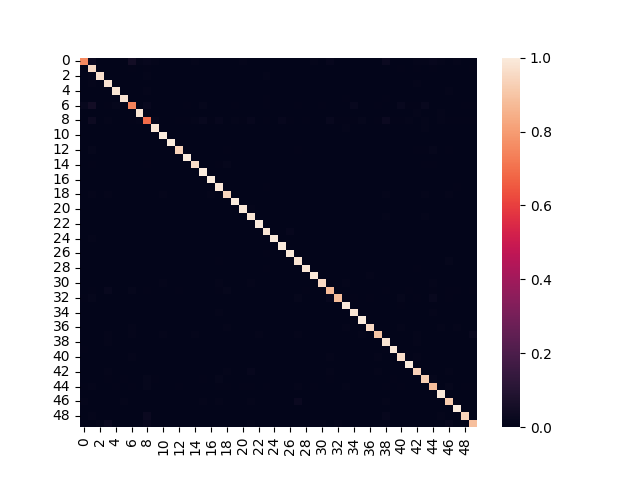
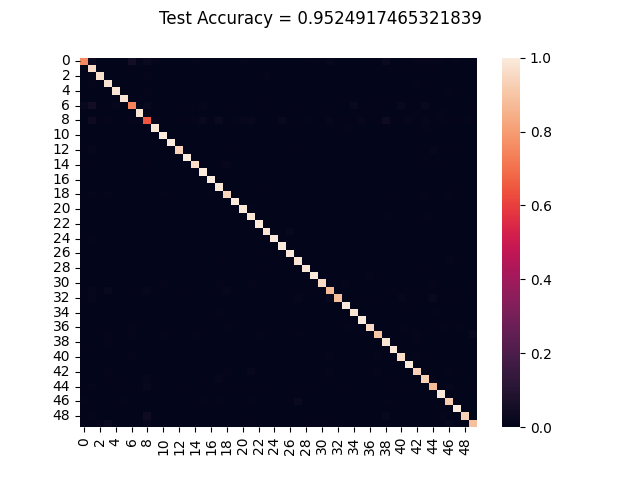
Most recent models and experiments

Changed region(s): [[0.25, 0.0, 0.75, 0.0625]]

diff --git a/protein_model.py b/protein_model.py
@@ -70,24 +70,24 @@ for ind, family in enumerate(families):
         train_family_embeds[train_family_accessions == family, :]
     )
 
-# Re-Train: update prototypes to discourage misclassification
-for _ in range(10):
-    # train_preds = cosine_sim_batch(all_prototypes, train_family_embeds)
-    # pred_train_families = families[np.argmax(train_preds, axis=0)]
-    pred_train_families = families[
-        top_n_class_matches(all_prototypes, train_family_embeds).flatten()
-    ]
-    print(balanced_accuracy_score(train_family_accessions, pred_train_families))
-    for index in np.where(train_family_accessions != pred_train_families)[0]:
-        embed = train_family_embeds[index]
-        true_family = train_family_accessions[index]
-        predicted_family = pred_train_families[index]
-        # Add this embed to it's correct family
-        all_prototypes[families == true_family, :] += LEARNING_RATE * embed
-        # Subtract this embed from it's mispredicted family
-        all_prototypes[families == predicted_family, :] -= LEARNING_RATE * embed
-    all_prototypes = np.sign(all_prototypes)
-    all_prototypes[all_prototypes == 0] = 1
+# # Re-Train: update prototypes to discourage misclassification
+# for _ in range(10):
+#     # train_preds = cosine_sim_batch(all_prototypes, train_family_embeds)
+#     # pred_train_families = families[np.argmax(train_preds, axis=0)]
+#     pred_train_families = families[
+#         top_n_class_matches(all_prototypes, train_family_embeds).flatten()
+#     ]
+#     print(balanced_accuracy_score(train_family_accessions, pred_train_families))
+#     for index in np.where(train_family_accessions != pred_train_families)[0]:
+#         embed = train_family_embeds[index]
+#         true_family = train_family_accessions[index]
+#         predicted_family = pred_train_families[index]
+#         # Add this embed to it's correct family
+#         all_prototypes[families == true_family, :] += LEARNING_RATE * embed
+#         # Subtract this embed from it's mispredicted family
+#         all_prototypes[families == predicted_family, :] -= LEARNING_RATE * embed
+#     all_prototypes = np.sign(all_prototypes)
+#     all_prototypes[all_prototypes == 0] = 1
 
 
 # Predict: measure simularity between encoded sequencs and each prototype
@@ -97,7 +97,7 @@ pred_cat = families[np.argmax(similarity_array, axis=0)]
 accuracy = balanced_accuracy_score(test_family_accessions, pred_cat)
 print(f"pred_acc = {accuracy:.2%}")
 sns.heatmap(confusion_matrix(test_family_accessions, pred_cat, normalize="true"))
-plt.suptitle("Test Accuracy = {accuracy}")
+plt.suptitle(f"Test Accuracy = {accuracy}")
 plt.savefig("results/base_train_confusion.png")
 plt.show()
 

diff --git a/synthetic_aa_with_motif.py b/synthetic_aa_with_motif.py
@@ -1,0 +1,73 @@
+# Generate synthetic AA sequences, use HDC to encode/classify, try to reveal
+# the pattern using similarities.
+
+from hyperdim_proteins import embed_sequences, py_generate_trimer_hdvs
+from sklearn.metrics import confusion_matrix, balanced_accuracy_score
+from sklearn.model_selection import train_test_split
+import matplotlib.pylab as plt
+import seaborn as sns
+import numpy as np
+
+
+AMINO_ACIDS = "ABCDEFGHIJKLMNOPQRSTUVWXYZ."
+KEY_TRIMER = "ADD"
+N_DIM = 10_000
+SEED = 1701
+
+
+def bundle(hdv_list):
+    out = np.sign(np.sum(np.stack(hdv_list), axis=0))
+    out[out == 0] = 1
+    return out
+
+
+def cosine_sim_batch(v1, v2):
+    v2_transpose = v2.T
+    norm_v1 = np.linalg.norm(v1, axis=1, keepdims=True)
+    norm_v2 = np.linalg.norm(v2_transpose, axis=0, keepdims=True)
+    normed = np.dot(norm_v1, norm_v2)
+    return (np.dot(v1, v2_transpose) / normed).astype(np.float16)
+
+
+# Generate hypervector info
+trimer_hdvs = py_generate_trimer_hdvs(AMINO_ACIDS, SEED)
+embed = lambda seqs: np.stack(embed_sequences(seqs, trimer_hdvs))
+
+# Generate the protein sequences
+sequences = [
+    "".join(np.random.choice(list(AMINO_ACIDS), 200, replace=True))
+    for _ in range(10000)
+]
+labels = np.zeros(len(sequences))
+for ind, aa_seq in enumerate(sequences):
+    if np.random.random() < 0.5:
+        start_pos = int(np.random.uniform(0, 200 - 30))
+        sequences[ind] = aa_seq[:start_pos] + KEY_TRIMER * 3 + aa_seq[(start_pos + 9) :]
+        labels[ind] = 1
+# Convert sequences to embeddings
+sequence_embeds = embed(sequences)
+# Split into train/test
+train_embed, test_embed, train_lab, test_lab = train_test_split(
+    sequence_embeds, labels, test_size=0.2
+)
+
+# Train: Bundle training data into prototypes
+all_prototypes = np.zeros(shape=(2, N_DIM))
+all_prototypes[0, :] = bundle(train_embed[train_lab == 0, :])
+all_prototypes[1, :] = bundle(train_embed[train_lab == 1, :])
+
+# Predict on unseen sequences
+similarity_array = cosine_sim_batch(all_prototypes, test_embed)
+pred_cat = np.argmax(similarity_array, axis=0)
+accuracy = balanced_accuracy_score(test_lab, pred_cat)
+print(f"pred_acc = {accuracy:.2%}")
+sns.heatmap(confusion_matrix(test_lab, pred_cat, normalize="true"))
+plt.show()
+
+# Compare to trimers to find relationship
+trimers, hdv_list = zip(*trimer_hdvs.items())
+trimer_similarities = cosine_sim_batch(all_prototypes, np.stack(hdv_list))
+print(np.array(trimers)[np.where(np.abs(trimer_similarities[1, :]) > 0.2)[0]])
+
+# addaddadd = bundle([trimer_hdvs["ADD"], trimer_hdvs["ADD"], trimer_hdvs["ADD"]])
+# sim = cosine_sim_batch(all_prototypes, addaddadd)
